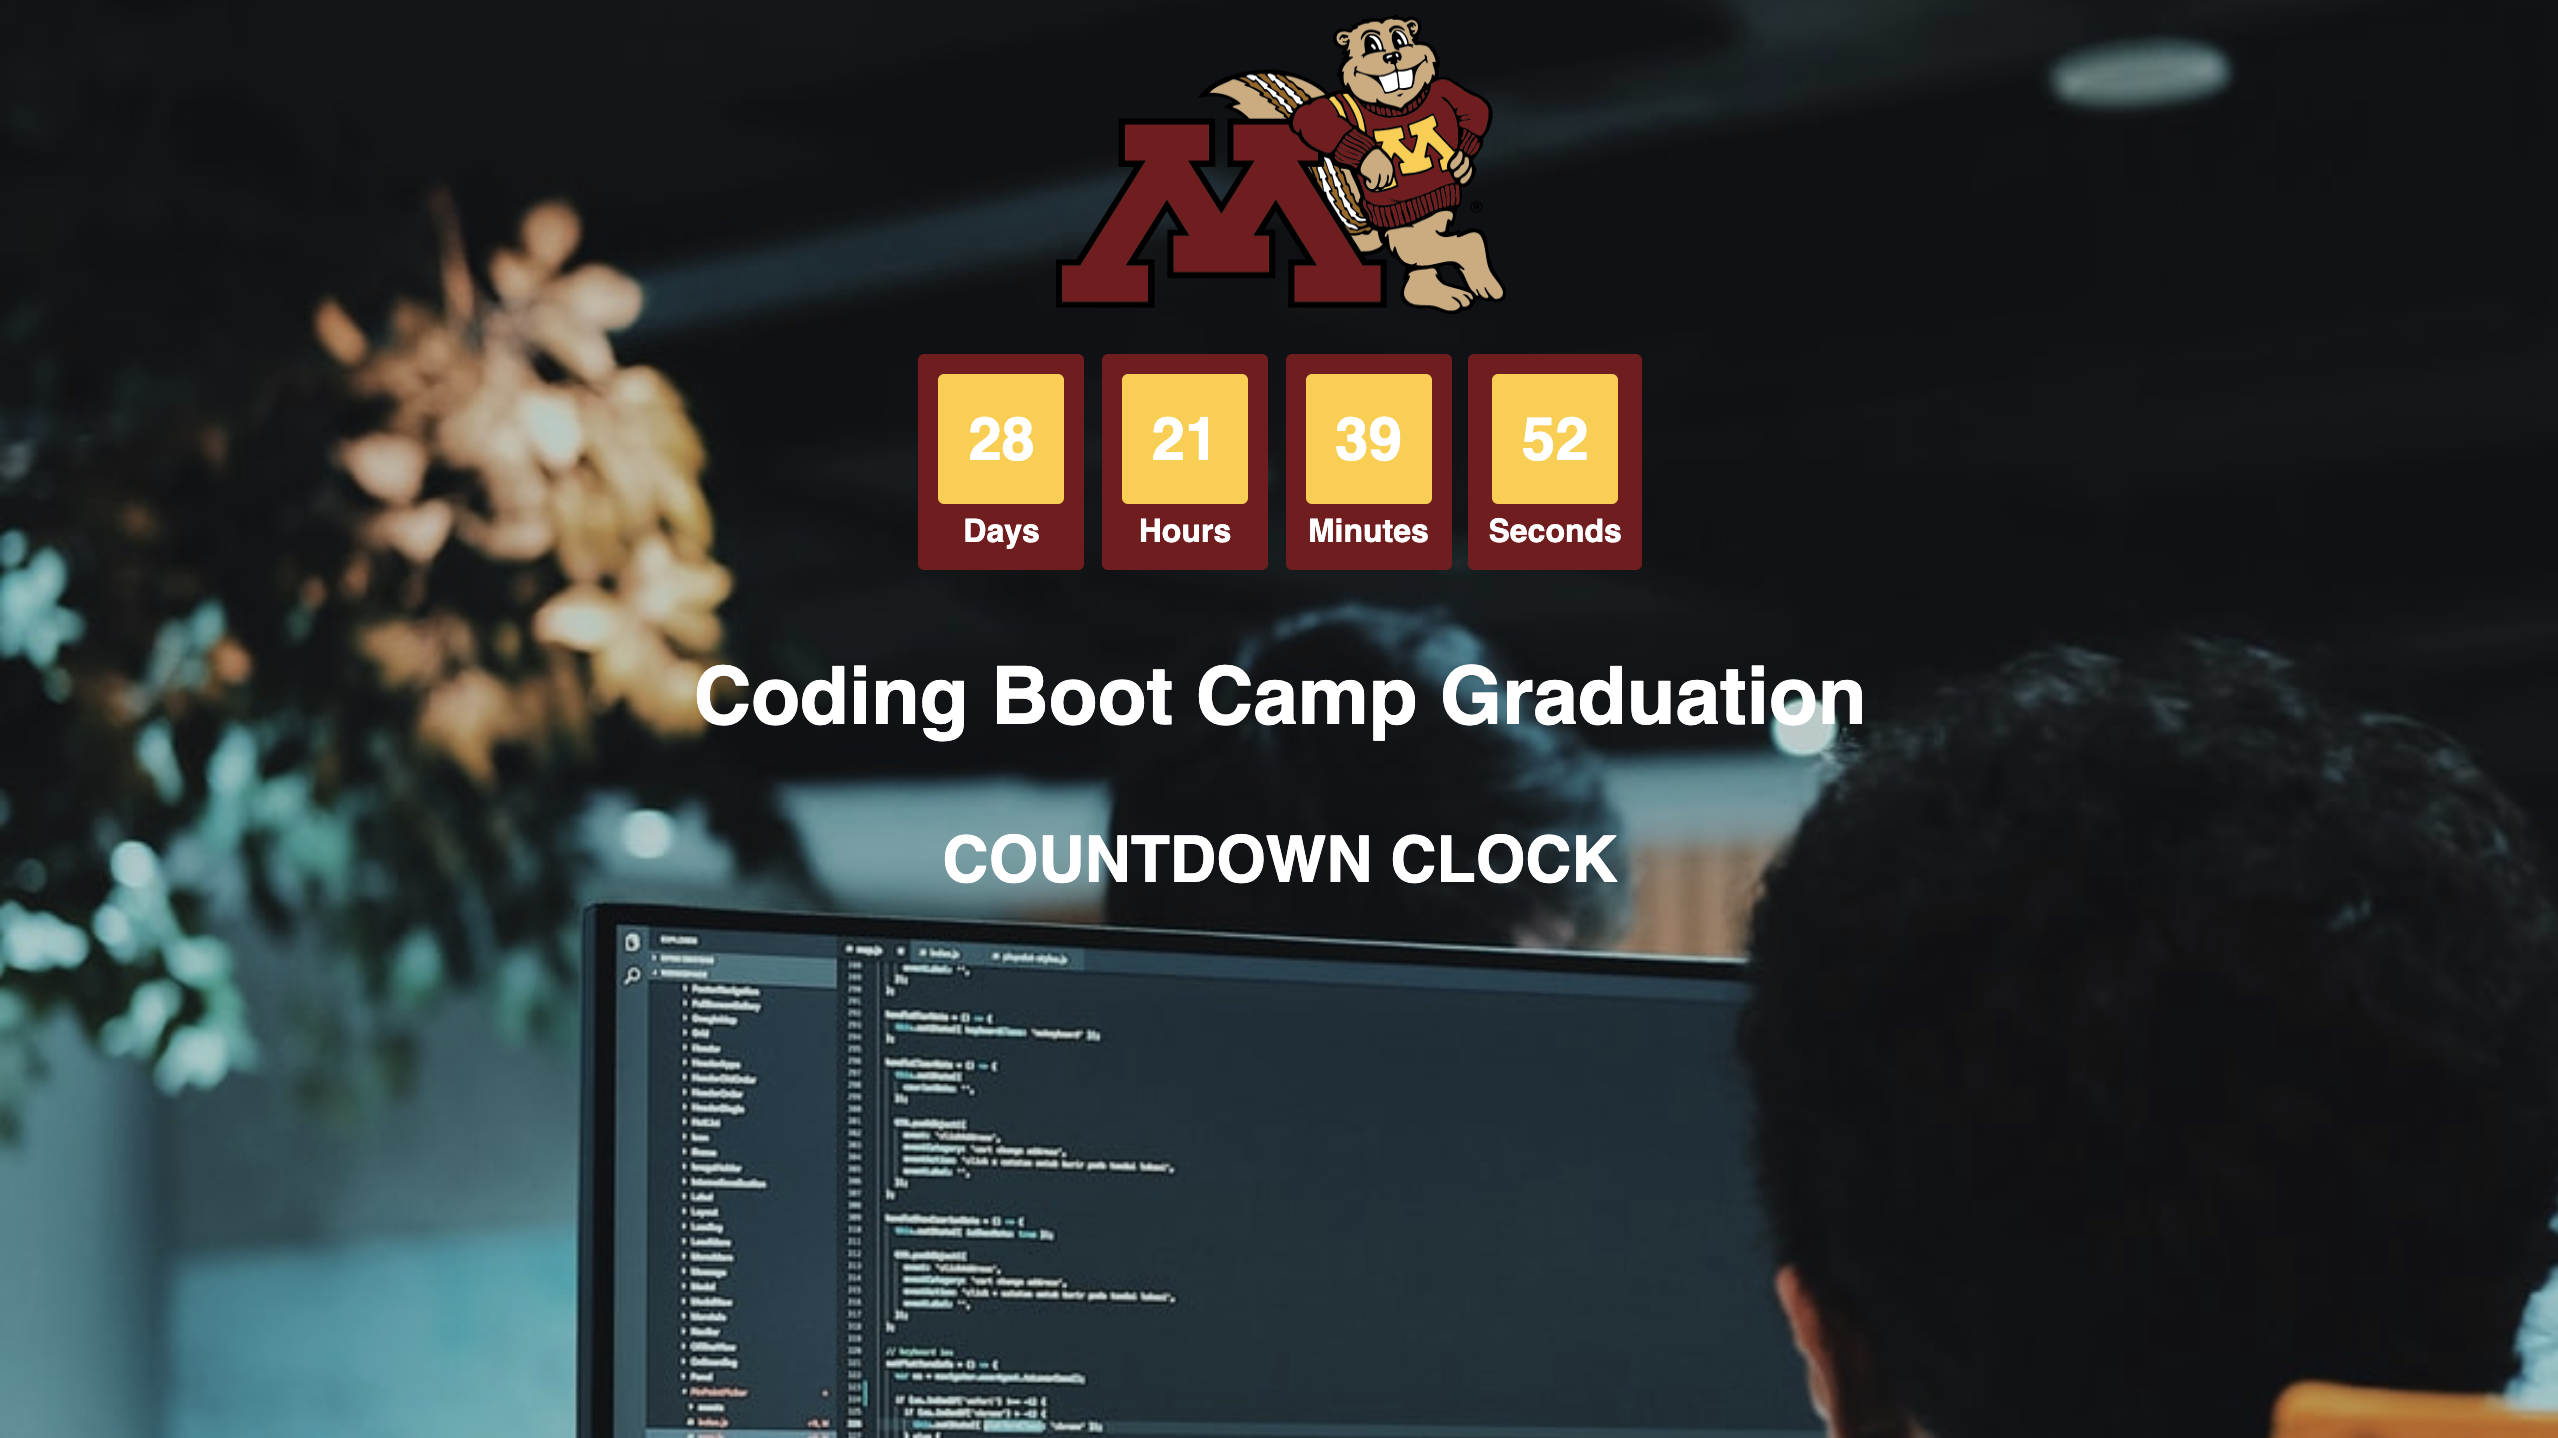
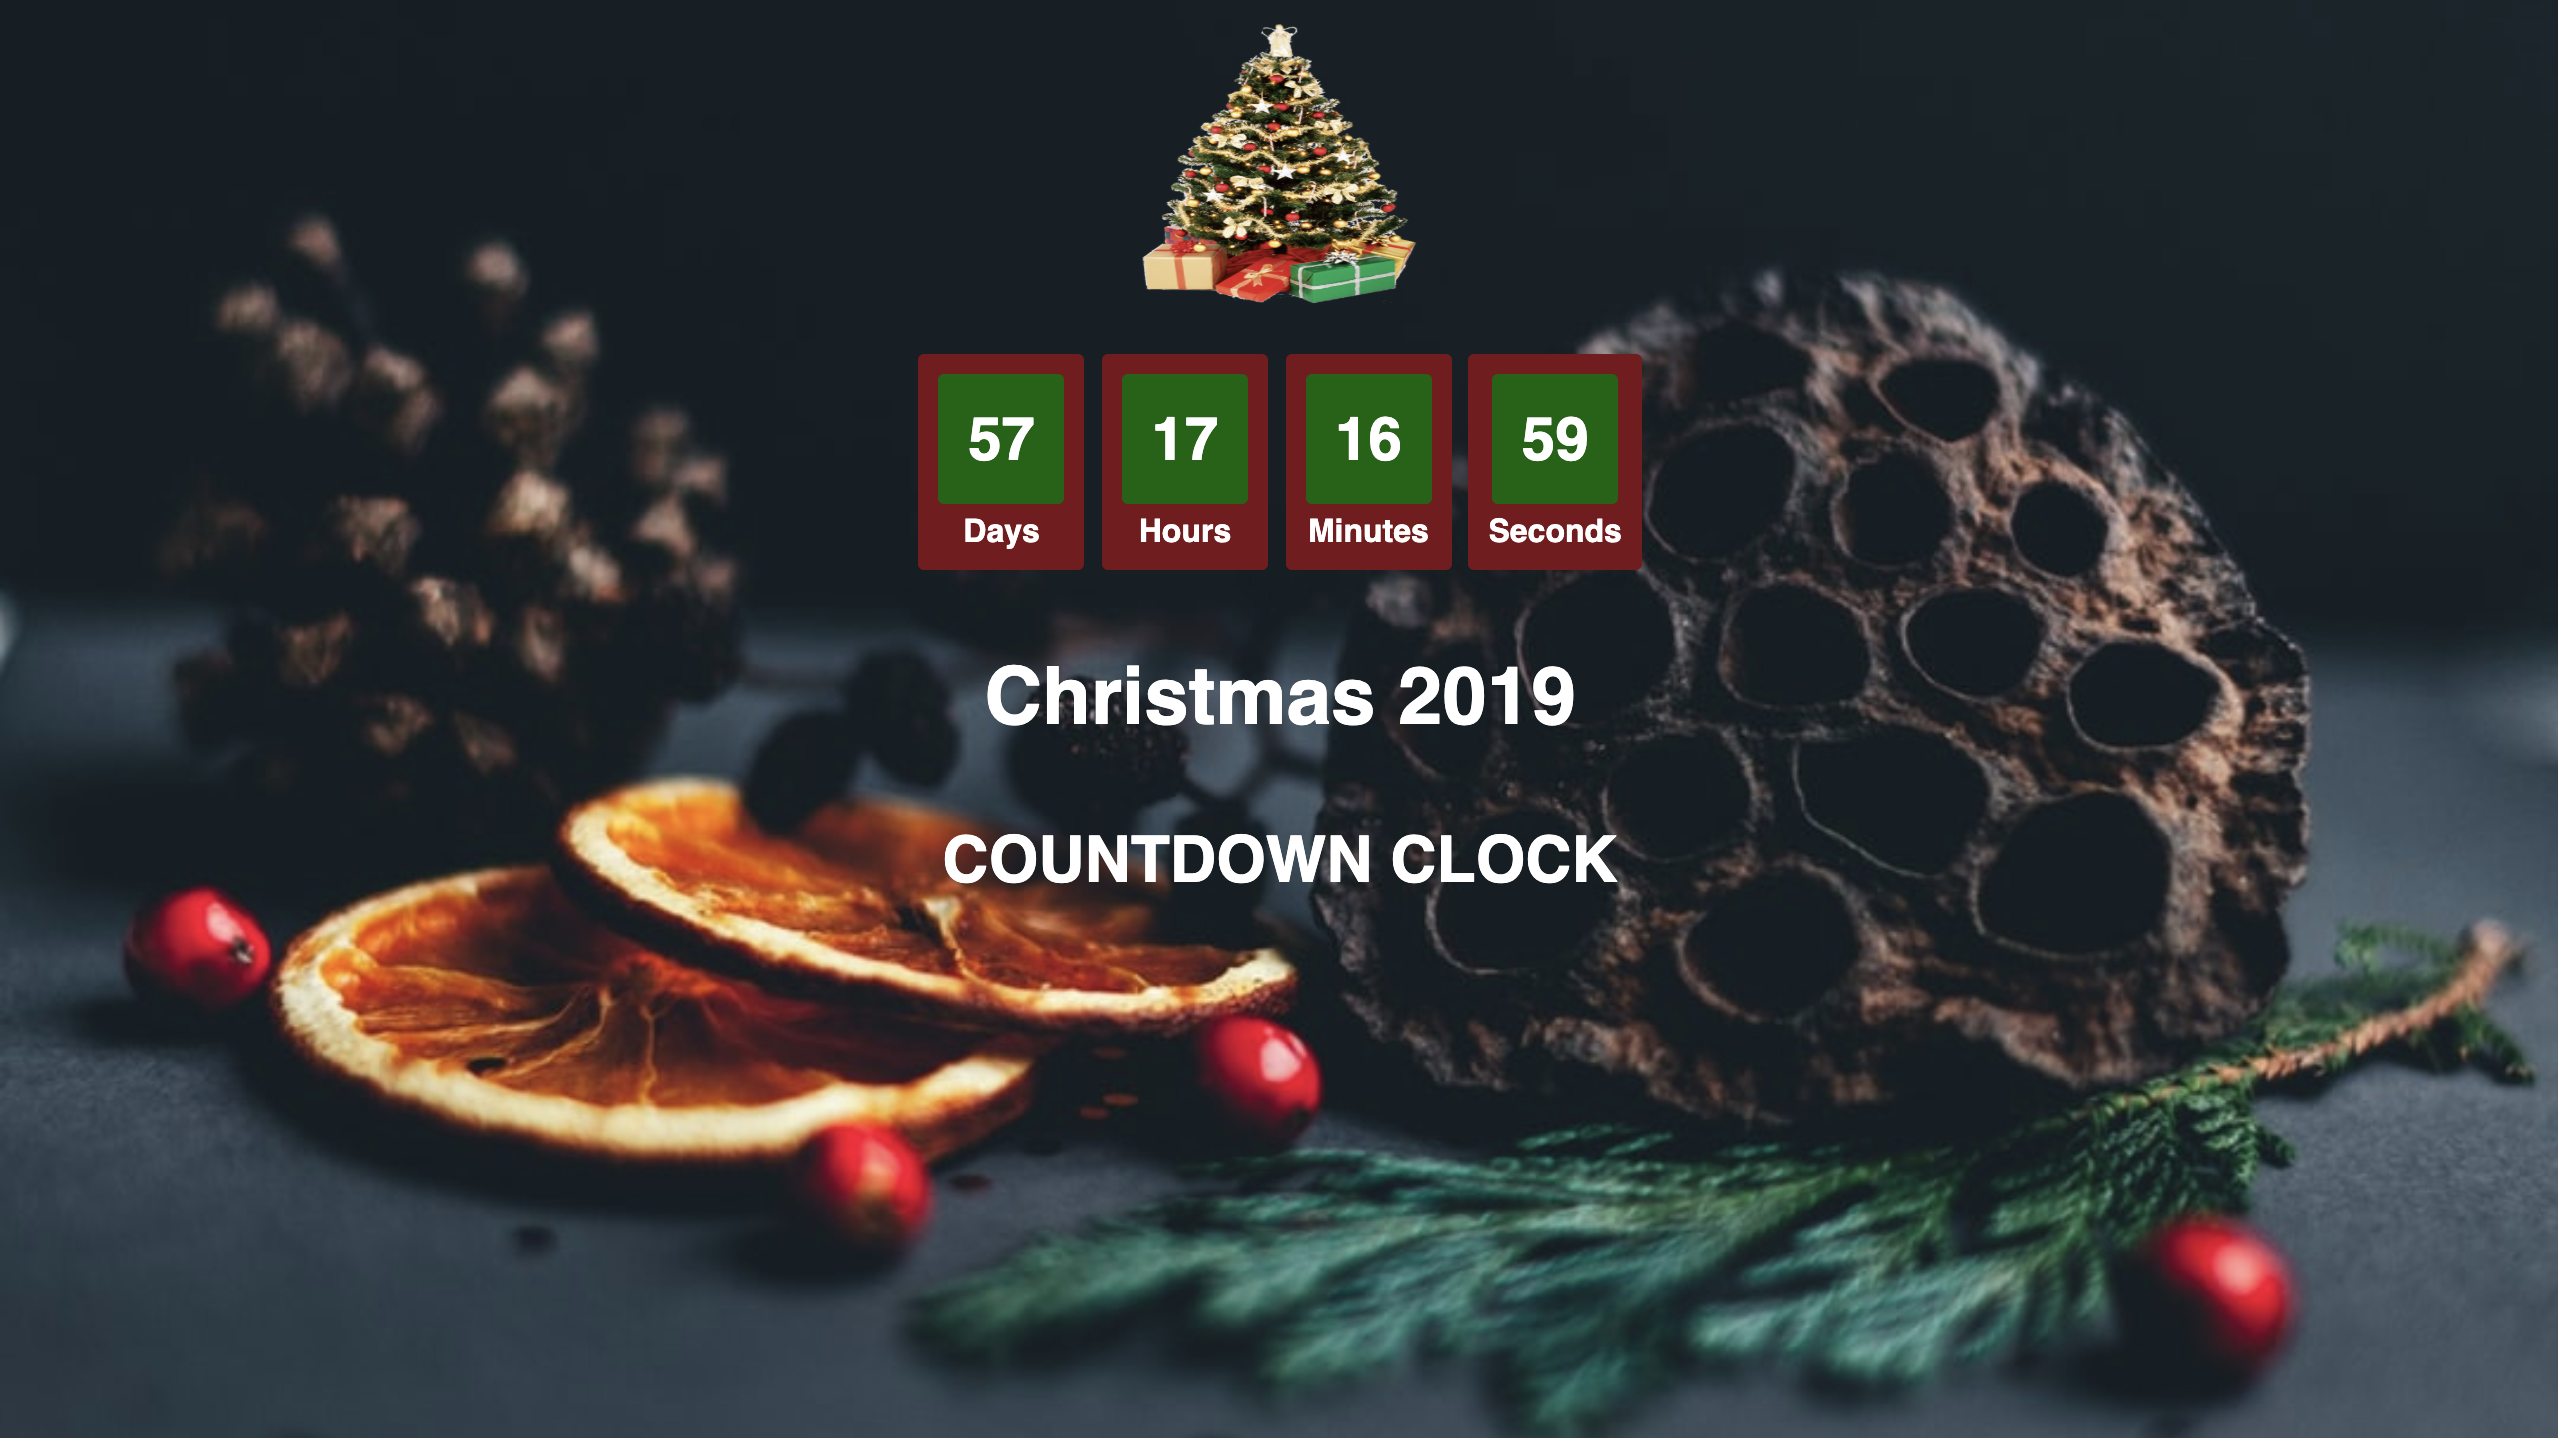
all work and no play make Shawn a dull boy

diff --git a/README.md b/README.md
@@ -1,6 +1,6 @@
 # Coding Boot Camp Graduation Timer
 
-Graduation Countdown Timer for University of Minnesota / Trilogy Coding Boot Camp Cohort 16. Based on our graduation date of: Friday, October 25th, 2019 at 10:00 AM.
+What was once a Graduation Countdown Timer for University of Minnesota / Trilogy Coding Boot Camp Cohort 16 is now a Christmas 2019 Countdown.
 
 Namaste! - Shawn
 
